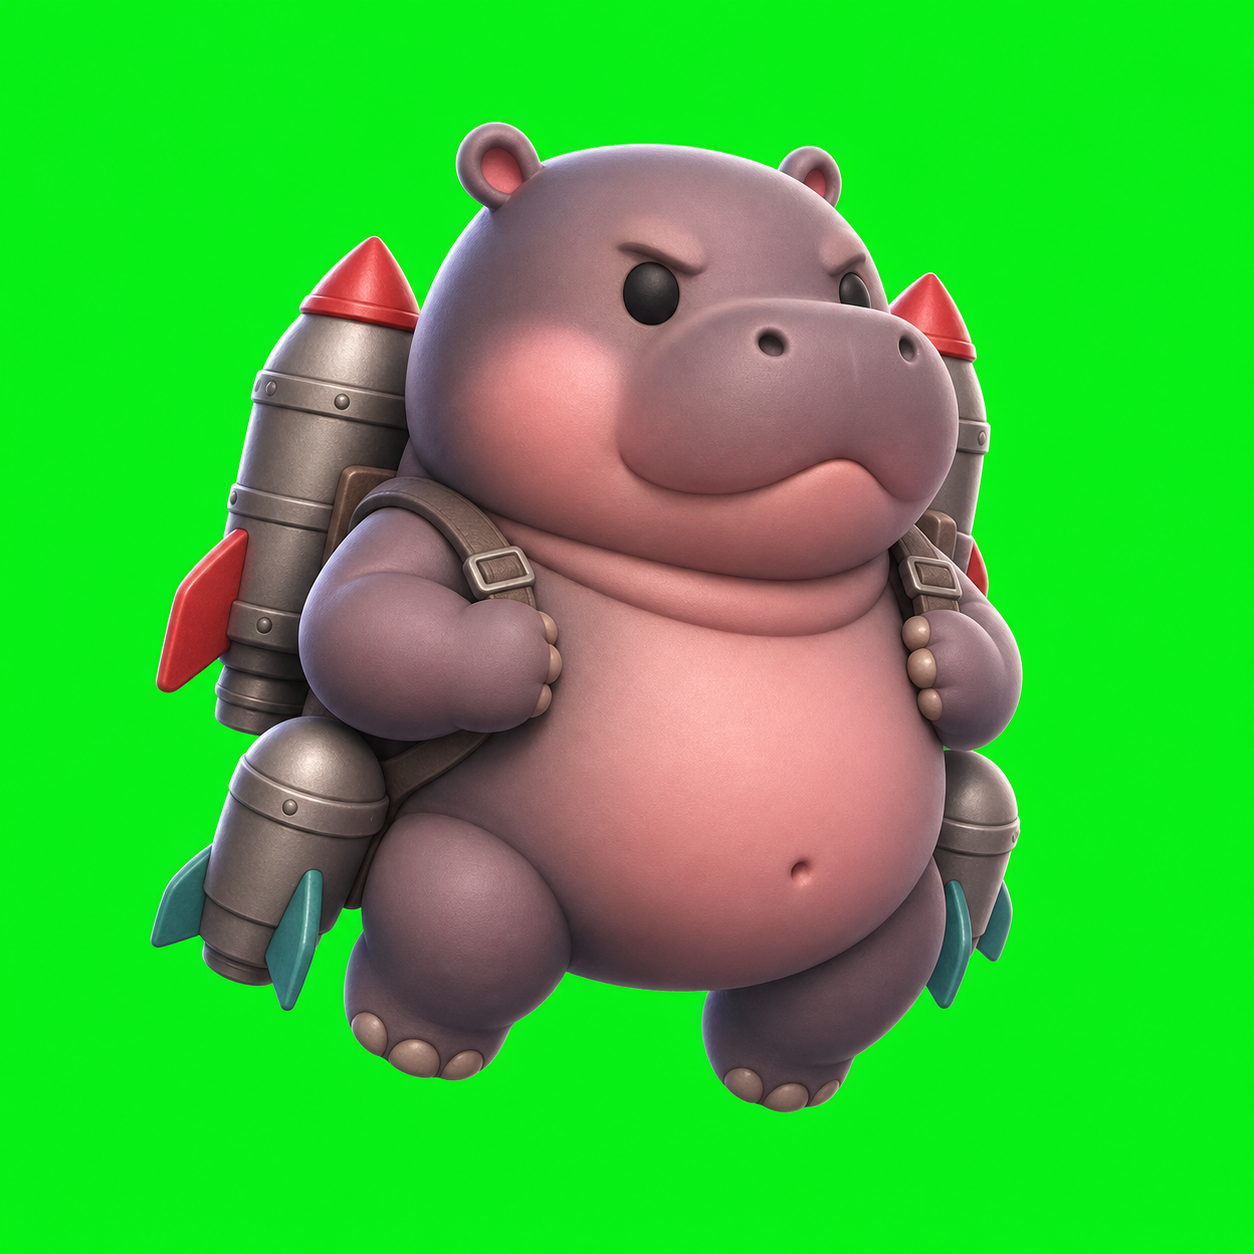
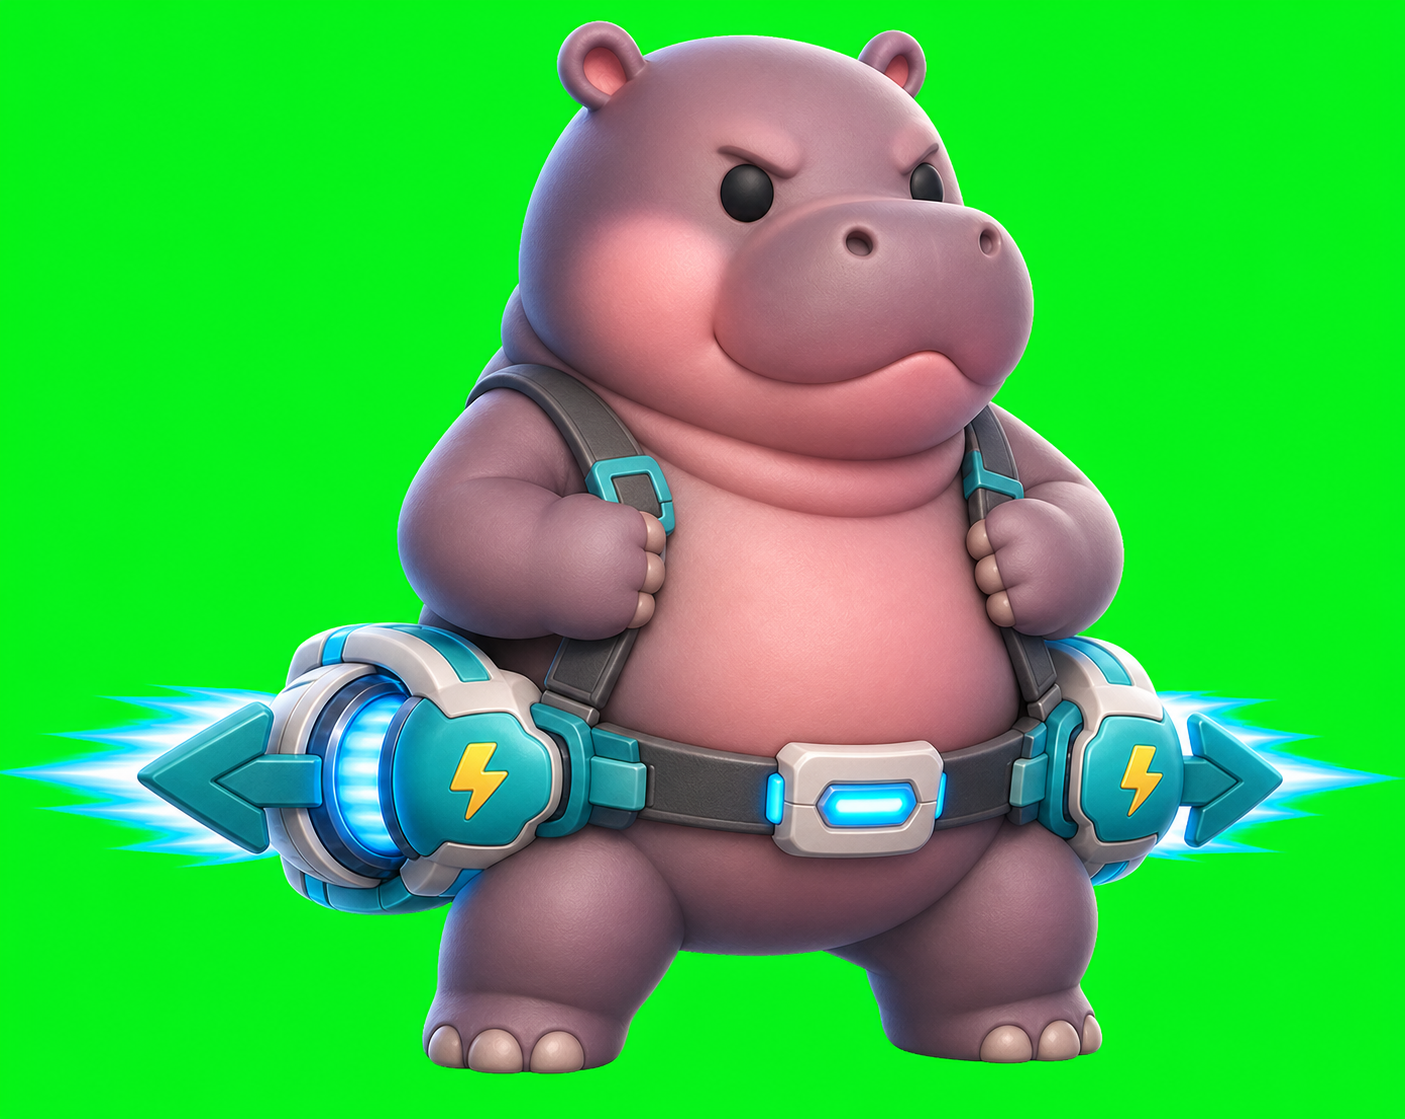
fix: ダッシュ機体の見た目を差別化

diff --git a/index.html b/index.html
@@ -672,7 +672,7 @@ const VEH_ART = [
   { base:'veh_kotsubu', bodyH:0.82, cy:0.56 }, // プロペラ=やや縦長(廃止)
   { base:'veh_comet',   bodyH:0.58, cy:0.45, fall:{bodyH:0.54, cy:0.5} },  // ジェット橇=横に流線+後方噴射
   { base:'veh_magnet',  bodyH:0.62, cy:0.5, cx:0.36, fall:{bodyH:0.62, cy:0.5} }, // 馬蹄磁石。コインが右に流れる絵
-  { base:'veh_dash',    bodyH:0.76, cy:0.53 }, // ツインブースター。横幅があるので体サイズは控えめに正規化
+  { base:'veh_dash',    bodyH:0.92, cy:0.52 }, // サイドブースター。横幅が大きいので体高基準で小さめに正規化
   // ※fall.bodyH(各装備の落下時の体サイズ)は中間値で仮置き＝小さいほど体が大きく描かれる。実機微調整はCodex可(?cap&veh=N&pose=fallで確認)。
 ];
 // 機体メタ：price=価格 / coinMul=獲得倍率 / fx=噴射演出(flame/puff/sparkle) / desc / buy=ショップに並べる

diff --git a/HANDOFF.md b/HANDOFF.md
@@ -2,6 +2,7 @@
 
 > ## ★Codex追記（2026-06-27 ダッシュ機体追加）
 > **実装済み・未push。** ユーザーFB「機体の追加とかいろいろ進めて」に対応し、新機体 **ダッシュ** を追加。
+> - **追加FB対応**：初版画像は通常ロケットとの差分が分かりにくかったため、左右へ大きく張り出す青いサイドブースター＋矢印フィン＋稲妻マークの画像へ差し替え。`VEH_ART`も `bodyH:0.92/cy:0.52` に調整してゲーム内サイズを抑えた。
 > - **画像生成/透過**：`assets/states/veh_dash.png` をCodex内蔵画像生成で作成し、`tools/dechroma_green.cjs`で `assets/sprites/veh_dash.png` へ透過切り出し。生成元は `C:\Users\mr_ba\.codex\generated_images\019f0798-09d9-7461-bcac-648665ccb3fd`。
 > - **機体配線**：`VEHICLES/VEH_ART/VEH_META` に `ダッシュ`(vehIdx=6) を追加。価格220、普段の横旋回は重め、横入力の初動だけ `DASH_IMPULSE` で瞬間回避。`U`全解放と `1-7` デバッグ選択にも反映。
 > - **見た目/手応え**：ブースト中はブースター振動、ダッシュ発動時は横残像＋キラキラ。自機周囲にクールダウンリングを表示し、使える時は淡く発光。

diff --git a/素材棚卸し.md b/素材棚卸し.md
@@ -34,7 +34,7 @@
 - 実装側の受け：drawHippoは今`useVeh`時に`va.base`1枚を idle/boost/fall 共用。**状態別スプライトがあれば`veh_<id>_<state>`を優先**する分岐に拡張すればよい（無ければbaseにフォールバック＝段階導入できる）。
 - ※`power`(クワッ大口/無敵)はスター無敵廃止で**現状デッド資産**。新規装備のpowerは作らない。
 - ※`veh_kotsubu.png`はこつぶ廃止で不要（削除可・当面放置）。
-- ※`veh_dash.png`は2026-06-27に追加。`assets/states/veh_dash.png`→`tools/dechroma_green.cjs`→`assets/sprites/veh_dash.png`。現状はidle/boost/fall共用で、発動残像とクールダウンリングはcode。
+- ※`veh_dash.png`は2026-06-27に追加し、同日FBで通常ロケット風から左右サイドブースター版へ差し替え。`assets/states/veh_dash.png`→`tools/dechroma_green.cjs`→`assets/sprites/veh_dash.png`。現状はidle/boost/fall共用で、発動残像とクールダウンリングはcode。
 
 ## ② 障害・敵（画像）
 | 種類 | 有無 | 備考 |
